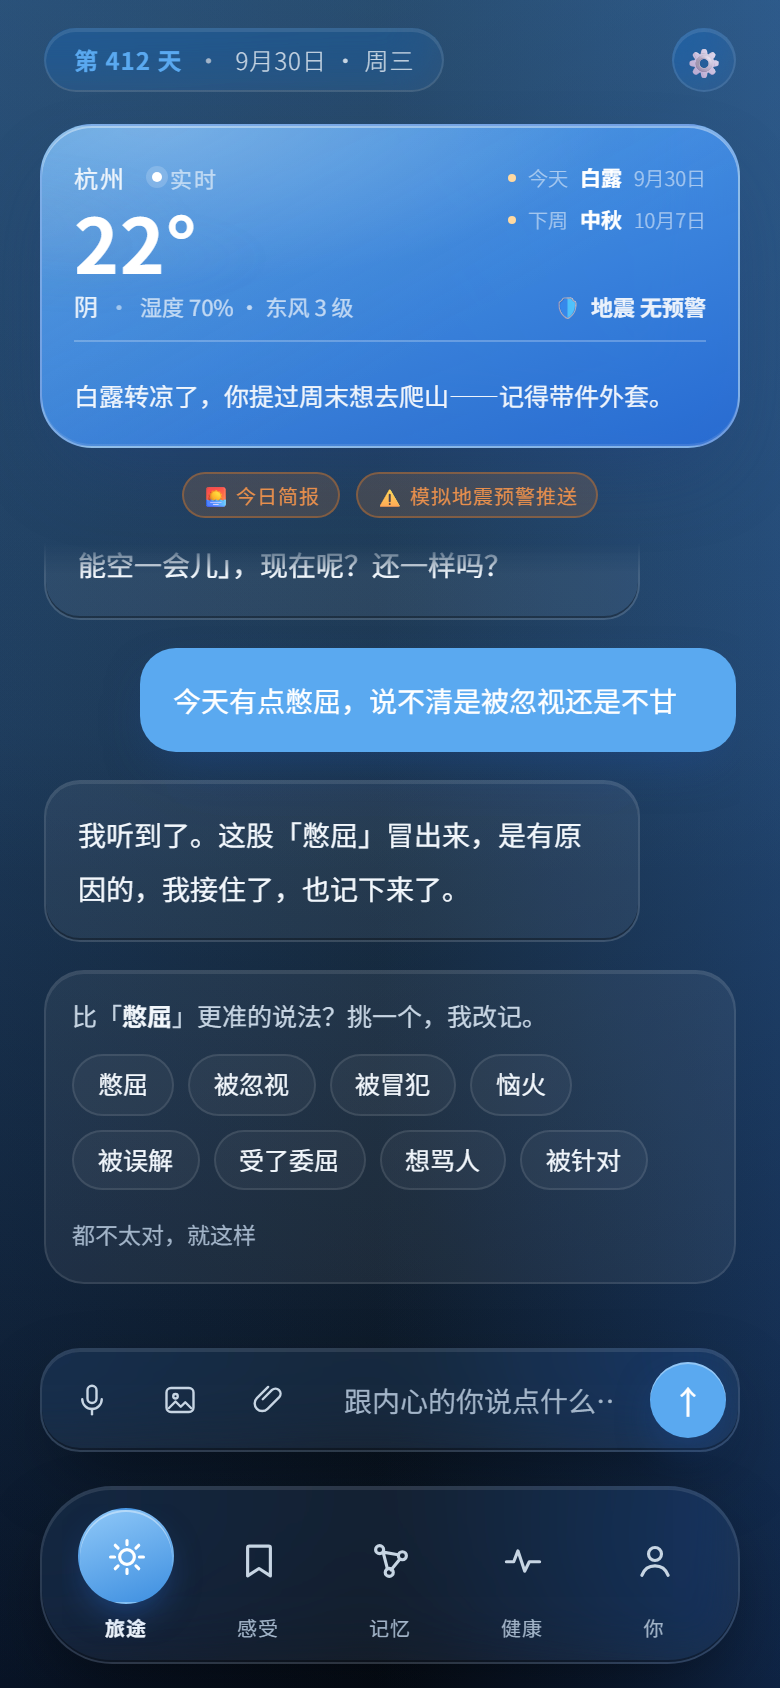
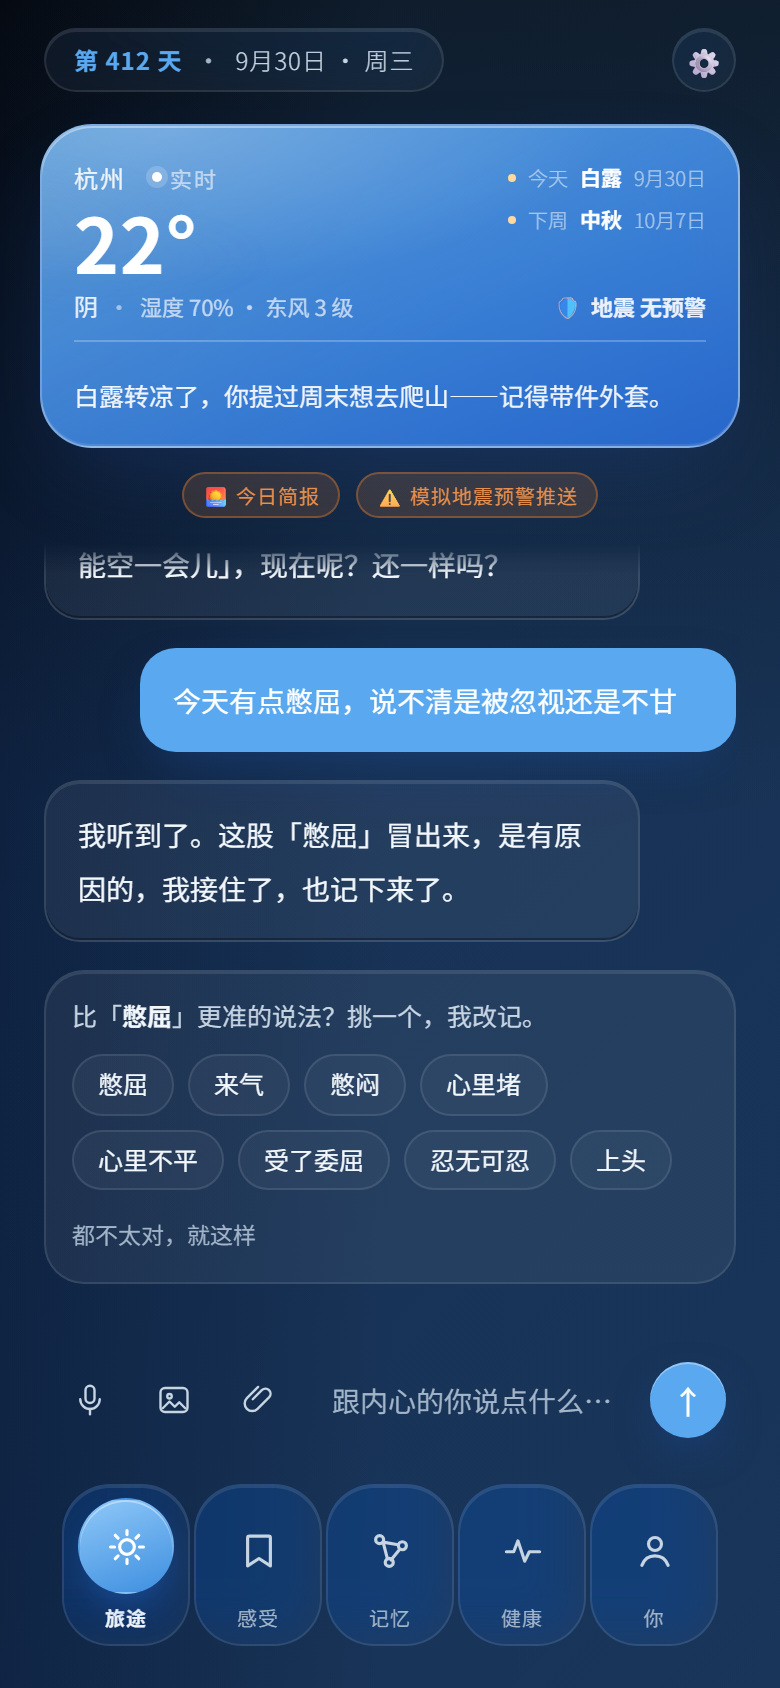
style: 只让输入框与底部导航透出背后内容，天气卡等实体卡片保留
- 输入框与底部导航去容器底
- 工具按钮改独立玻璃圆钮，导航项改竖胶囊
- 天气卡、演示按钮、发送键保持原样

diff --git a/prototype/index.html b/prototype/index.html
@@ -2083,6 +2083,66 @@
   }
   .annual-box textarea:focus{border-color:var(--blue-line);box-shadow:0 0 0 3px var(--blue-soft);}
   .annual-acts{display:flex;gap:8px;justify-content:flex-end;margin-top:6px;}
+
+  /* ==========================================================================
+     v96 · 只让「悬浮层」透出背后的内容
+     天气卡、演示按钮、发送键、导航图标都是实体（卡片/胶囊），保留；
+     输入框与底部导航的「容器底」（玻璃、描边、阴影、毛玻璃）去掉，
+     滚动时下面的文字能从按钮之间透上来（参考聊天 App 的悬浮工具条）。
+     ========================================================================== */
+  .chat-input{
+    background:transparent !important;
+    border-color:transparent !important;
+    box-shadow:none !important;
+    -webkit-backdrop-filter:none !important;
+    backdrop-filter:none !important;
+  }
+  :root[data-theme="light"] .chat-input{
+    background:transparent !important;
+    border-color:transparent !important;
+    box-shadow:none !important;
+    -webkit-backdrop-filter:none !important;
+    backdrop-filter:none !important;
+  }
+  .nav{
+    background:transparent !important;
+    border-color:transparent !important;
+    box-shadow:none !important;
+    -webkit-backdrop-filter:none !important;
+    backdrop-filter:none !important;
+  }
+  /* 每个导航项自己是一个竖胶囊（图标 + 文字），去掉容器底后依然清晰 */
+  .nav-item{
+    background:var(--glass-bg-2);
+    border:1px solid var(--glass-border);
+    border-radius:24px;
+    padding:8px 2px;
+    -webkit-backdrop-filter:blur(14px) saturate(160%);
+    backdrop-filter:blur(14px) saturate(160%);
+    box-shadow:inset 0 1px 0 var(--glass-hi);
+  }
+  .nav-item .ic{
+    background:transparent;
+    border-color:transparent;
+    box-shadow:none;
+    -webkit-backdrop-filter:none;
+    backdrop-filter:none;
+  }
+  :root[data-theme="light"] .nav-item{
+    background:rgba(255,255,255,.82);
+    border-color:rgba(255,255,255,.9);
+  }
+  /* 透明底上，工具按钮与导航项保留自己的胶囊/图标存在感 */
+  .chat-tool{
+    background:var(--glass-bg-2);
+    border:1px solid var(--glass-border);
+    border-radius:var(--r-pill);
+    width:36px;height:36px;
+  }
+  :root[data-theme="light"] .chat-tool{
+    background:rgba(255,255,255,.55);
+    border-color:rgba(255,255,255,.7);
+  }
   .grat-last{margin-top:7px;font-size:11.5px;color:var(--text-dim);}
   .grat-last b{color:var(--sage);font-weight:600;}
   /* ==========================================================================
